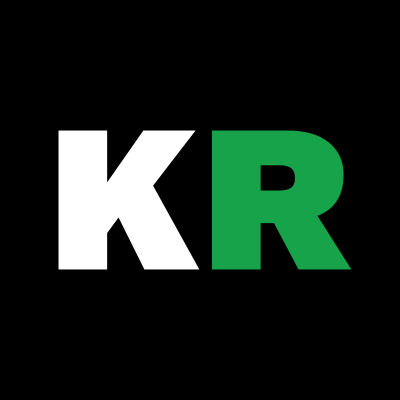
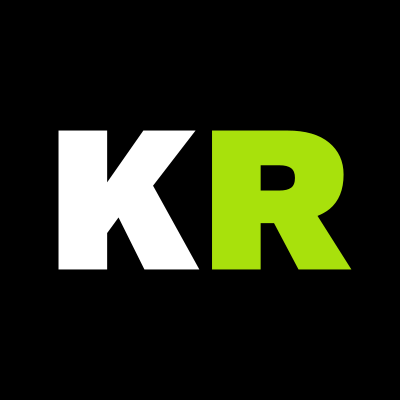
update brand

Changed region(s): [[0.51, 0.3, 0.87, 0.69]]

diff --git a/app/page.tsx b/app/page.tsx
@@ -110,7 +110,7 @@ export default function Page() {
       >
         <div style={CONTAINER}>
           <div
-            className="grid items-end"
+            className="grid items-start"
             style={{
               gridTemplateColumns: '1.1fr 0.9fr',
               gap: 'calc(2rem * 2)',
@@ -135,15 +135,13 @@ export default function Page() {
                   </span>
                 ))}
               </div>
-              <h1 style={{ fontFamily: "'UnifrakturMaguntia', cursive", fontSize: 'clamp(4.5rem, 13vw, 12rem)', lineHeight: 0.9, marginBottom: '2rem' }}>
-                Kevin<br /><span style={{ color: 'var(--accent-dim)' }}>Ryan</span>
+              <h1 style={{ marginBottom: '2rem' }}>
+                <img
+                  src="/brand/kevin-ryan-logo-outlined.svg"
+                  alt="Kevin Ryan & Associates"
+                  style={{ width: 'clamp(280px, 45vw, 540px)', height: 'auto' }}
+                />
               </h1>
-              <p style={{
-                fontSize: '1.1rem', lineHeight: 1.75, maxWidth: '48ch',
-                marginBottom: '2.5rem', color: 'var(--grey-800)',
-              }}>
-                I embed with enterprise clients and make complex technology work in production. Thirty years of platform engineering and DevOps delivery. Writing the book on what comes next.
-              </p>
               <div className="flex items-center" style={{ gap: '1rem' }}>
                 <a
                   href="#contact"
@@ -181,10 +179,8 @@ export default function Page() {
                   alt="Kevin Ryan"
                   fill
                   className="object-cover"
-                  style={{ filter: 'grayscale(100%) contrast(1.15)', transition: 'filter 0.5s ease' }}
+                  style={{ filter: 'grayscale(100%) contrast(1.15)' }}
                   priority
-                  onMouseEnter={(e) => { (e.target as HTMLElement).style.filter = 'grayscale(0%) contrast(1.05)' }}
-                  onMouseLeave={(e) => { (e.target as HTMLElement).style.filter = 'grayscale(100%) contrast(1.15)' }}
                 />
                 <div style={{
                   position: 'absolute', bottom: 0, left: 0, right: 0,

diff --git a/app/layout.tsx b/app/layout.tsx
@@ -18,7 +18,7 @@ export default function RootLayout({
       <head>
         <link rel="preconnect" href="https://fonts.googleapis.com" />
         <link rel="preconnect" href="https://fonts.gstatic.com" crossOrigin="anonymous" />
-        <link href="https://fonts.googleapis.com/css2?family=Archivo:wght@400;500;600;700;800;900&family=Bebas+Neue&family=UnifrakturMaguntia&family=DM+Sans:wght@300;400;500;600;700&family=JetBrains+Mono:wght@400;500;600;700&display=swap" rel="stylesheet" />
+        <link href="https://fonts.googleapis.com/css2?family=Archivo:wght@400;500;600;700;800;900&family=Bebas+Neue&family=Work+Sans:wght@300;900&family=DM+Sans:wght@300;400;500;600;700&family=JetBrains+Mono:wght@400;500;600;700&display=swap" rel="stylesheet" />
       </head>
       <body>
         <SiteHeader />

diff --git a/components/SiteHeader.tsx b/components/SiteHeader.tsx
@@ -58,9 +58,11 @@ export default function SiteHeader(): React.JSX.Element {
         <a
           href="#"
           style={{
-            fontFamily: "'UnifrakturMaguntia', cursive",
+            fontFamily: "'Work Sans', sans-serif",
+            fontWeight: 900,
             fontSize: '1.8rem',
             lineHeight: 1,
+            textTransform: 'uppercase',
           }}
         >
           Kevin<span style={{ color: 'var(--accent-dim)', marginLeft: '0.15em' }}>Ryan</span>

diff --git a/public/brand/kr-brand-guidelines.md b/public/brand/kr-brand-guidelines.md
@@ -52,13 +52,13 @@ The logo is available in four configurations. Use the appropriate variant based 
 
 | Variant | KEVIN | RYAN | & associates | Background |
 |---------|-------|------|-------------|------------|
-| Standard | `#0A0A0A` (black) | `#16A34A` (green) | `#0A0A0A` (black) | Light (`#FFFFFF` or `#F9FAFB`) |
-| Reversed | `#FFFFFF` (white) | `#16A34A` (green) | `#FFFFFF` (white) | Dark (`#0A0A0A` or `#111111`) |
+| Standard | `#0A0A0A` (black) | `#A8E10C` (green) | `#0A0A0A` (black) | Light (`#FFFFFF` or `#F9FAFB`) |
+| Reversed | `#FFFFFF` (white) | `#A8E10C` (green) | `#FFFFFF` (white) | Dark (`#0A0A0A` or `#111111`) |
 
 ### Colour Rules
 
 - KEVIN is always black on light backgrounds, white on dark backgrounds.
-- RYAN is always `#16A34A` regardless of background.
+- RYAN is always `#A8E10C` regardless of background.
 - "& associates" follows the same colour as KEVIN.
 - The green must never be altered, lightened, darkened, or replaced with another colour.
 
@@ -100,7 +100,7 @@ The palette is derived from the kevinryan.io design system. It is minimal and hi
 
 | Swatch | Name | Hex | RGB |
 |--------|------|-----|-----|
-| 🟩 | **Ryan Green** | `#16A34A` | 22, 163, 74 |
+| 🟩 | **Lime** | `#A8E10C` | 22, 163, 74 |
 | ⬛ | **Primary Black** | `#0A0A0A` | 10, 10, 10 |
 | ⬜ | **White** | `#FFFFFF` | 255, 255, 255 |
 
@@ -118,7 +118,7 @@ The palette is derived from the kevinryan.io design system. It is minimal and hi
 
 | Colour | Usage |
 |--------|-------|
-| **Ryan Green** `#16A34A` | RYAN in logo, accent colour, links, interactive elements, section numbers, highlights |
+| **Lime** `#A8E10C` | RYAN in logo, accent colour, links, interactive elements, section numbers, highlights |
 | **Primary Black** `#0A0A0A` | KEVIN in logo, headings, primary text on light backgrounds |
 | **Dark Gray** `#374151` | Body text, secondary content, paragraph text |
 | **Mid Gray** `#6B7280` | Captions, metadata, tertiary information, timestamps |
@@ -130,7 +130,7 @@ The palette is derived from the kevinryan.io design system. It is minimal and hi
 
 ```css
 :root {
-  --color-green: #16A34A;
+  --color-green: #A8E10C;
   --color-black: #0A0A0A;
   --color-white: #FFFFFF;
   --color-near-black: #111111;
@@ -147,7 +147,7 @@ These colours map to the Tailwind CSS palette used on kevinryan.io:
 
 | Brand Token | Tailwind Class |
 |-------------|---------------|
-| Ryan Green | `green-600` |
+| Lime | `green-600` |
 | Primary Black | `gray-950` / custom |
 | Dark Gray | `gray-700` |
 | Mid Gray | `gray-500` |
@@ -256,7 +256,7 @@ These rules protect the integrity of the identity. When in doubt, refer to the m
 - Use the KR monogram at sizes below 120px / 30mm where the full logo becomes illegible.
 - Use the dark background variant when placing the logo on dark surfaces.
 - Reference Work Sans via Google Fonts for all web and digital applications.
-- Keep the green at exactly `#16A34A` — no variations, no gradients, no opacity changes.
+- Keep the green at exactly `#A8E10C` — no variations, no gradients, no opacity changes.
 - Use the alternating white / off-white section pattern for long-form page layouts.
 
 ### Don't
